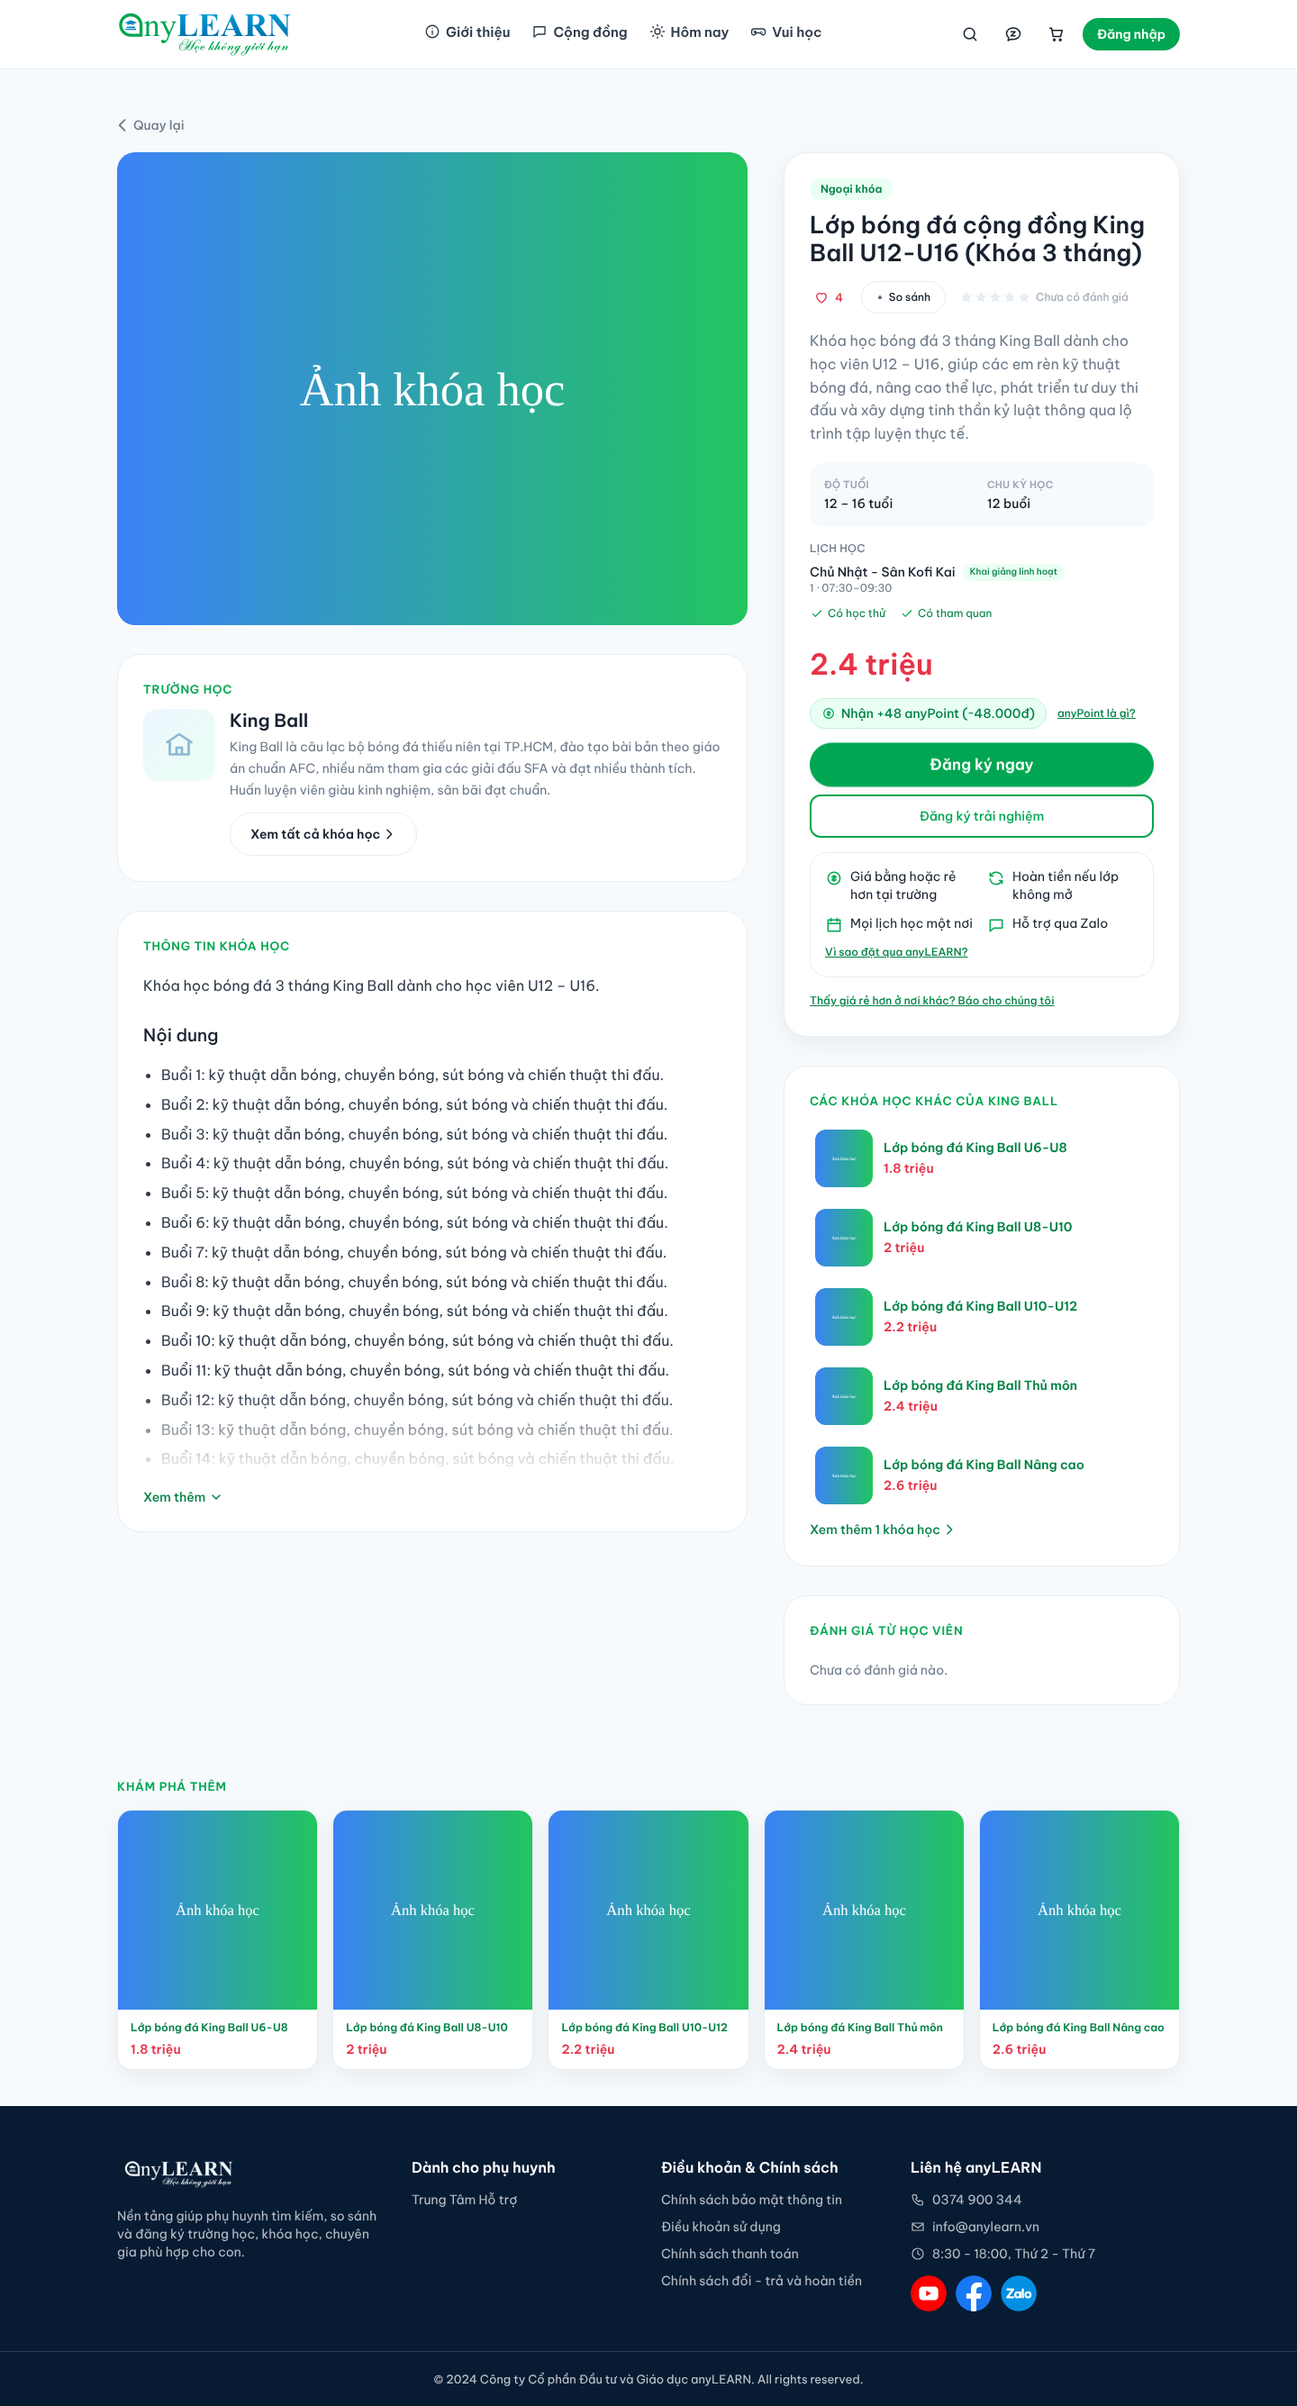
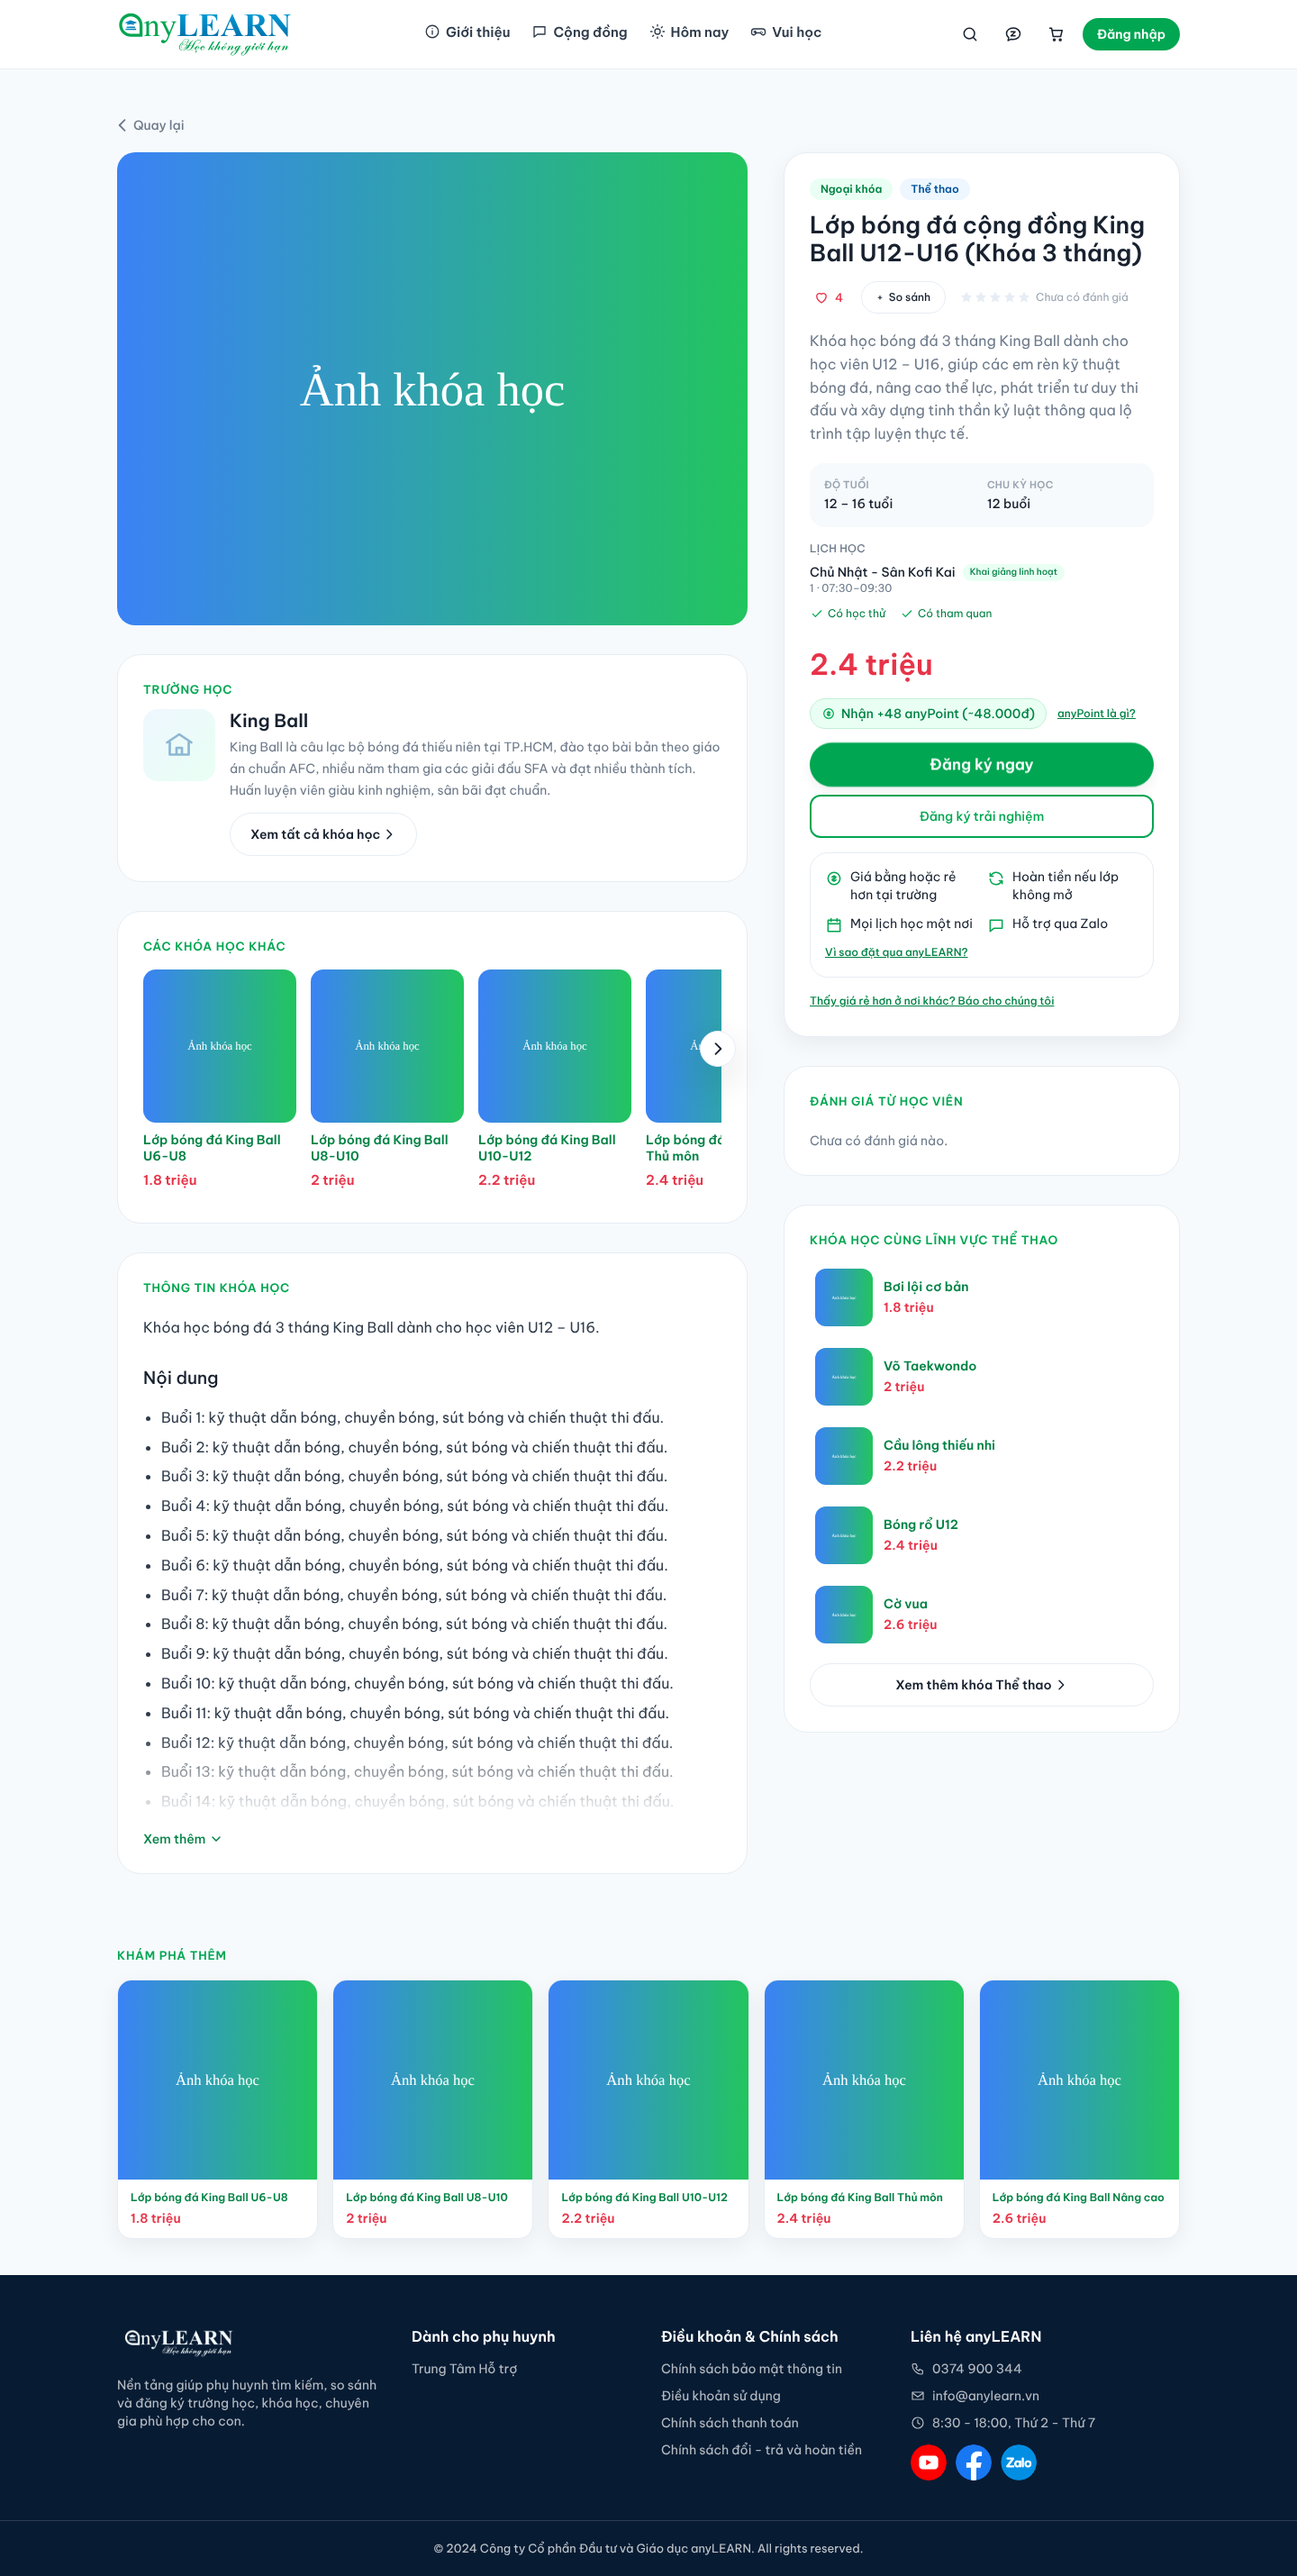
PDP: reviews under the buy card, same-field courses on the right
Right column: buy card, reviews, then 5 courses of the same field (the visitors' search
for the first category, no ref so it is not logged) with "Xem thêm" to /search with
that category. The partner's other courses go back to their row, as their own block
under the partner block in the left column.

Claude-Session: https://claude.ai/code/session_017554NAj9pbuWEqGm9P4AtS

diff --git a/anylearn_v2/src/app/class/[id]/[slug]/page.tsx b/anylearn_v2/src/app/class/[id]/[slug]/page.tsx
@@ -1,5 +1,6 @@
-import { getPdpData, getPointsPreview, getCourseUrl, PdpData, Item, ItemSchedule } from '@/lib/api'
+import { getPdpData, getPointsPreview, getCourseUrl, searchItems, PdpData, Item, ItemSchedule } from '@/lib/api'
 import Link from 'next/link'
+import ScrollRow from '@/components/ScrollRow'
 import { notFound } from 'next/navigation'
 import type { Metadata } from 'next'
 import BackButton from '@/components/BackButton'
@@ -45,7 +46,7 @@ const SCHEDULE_BADGE_CLASS: Record<string, string> = {
   open: 'bg-green-soft text-green-dark',
 }
 const PANEL = 'rounded-[26px] border border-line bg-white p-5 lg:p-7'
-const RELATED_LIMIT = 5
+const SAME_FIELD_LIMIT = 5
 
 const FEATURE_LABELS = [
   { key: 'activiyTrial', label: 'Có học thử' },
@@ -87,6 +88,12 @@ export default async function PdpPage({ params }: Props) {
   const origin = siteOrigin()
   const coursePath = getCourseUrl(item)
   const firstCategory = categories[0]
+  // Same field = the visitors' search for the first category (visible courses, max 2 per partner); not logged
+  // as a search because no `ref` is sent.
+  const sameField = firstCategory
+    ? (await searchItems('', 0, SAME_FIELD_LIMIT + 1, { category: firstCategory.url })).items
+        .filter(it => it.id !== item.id).slice(0, SAME_FIELD_LIMIT)
+    : []
 
   return (
     <>
@@ -104,9 +111,10 @@ export default async function PdpPage({ params }: Props) {
         ]),
       ]} />
       {/* ── Hero ──
-          Desktop: two columns. Left = picture, video outline, partner, course description; right = buy card, related
-          courses of the partner, reviews (the right column follows the scroll). Phone: one column, the order-* classes
-          put the blocks as picture, buy card, video, partner, related, reviews, description. */}
+          Desktop: two columns. Left = picture, video outline, partner, its other courses, course description; right =
+          buy card, reviews, courses of the same field (the right column follows the scroll). Phone: one column, the
+          order-* classes put the blocks as picture, buy card, video, partner, other courses, reviews, description,
+          same field. */}
       <section className="section--soft pb-10 pt-6 lg:pt-10">
         <div className="container">
           <BackButton />
@@ -146,8 +154,30 @@ export default async function PdpPage({ params }: Props) {
                 </div>
               )}
 
+              {authorItems.length > 0 && (
+                <div className={`${PANEL} order-4 lg:order-none`}>
+                  <h3 className="section-kicker mb-4">Các khóa học khác</h3>
+                  <ScrollRow>
+                    {(authorItems as Item[]).map(it => (
+                      <Link key={it.id} href={getCourseUrl(it)} className="w-[150px] shrink-0 no-underline sm:w-[170px]">
+                        <div className="relative mb-2.5 aspect-square overflow-hidden rounded-[14px] bg-gradient-to-br from-green-soft to-blue-soft">
+                          {it.image
+                            // eslint-disable-next-line @next/next/no-img-element
+                            ? <img src={it.image} alt={it.title} className="absolute inset-0 size-full object-cover" />
+                            : <div className="grid size-full place-items-center text-blue/40"><BookIcon className="size-8" /></div>
+                          }
+                        </div>
+                        <div className="mb-1.5 line-clamp-2 text-sm font-extrabold leading-[1.3] text-green-dark">{it.title}</div>
+                        <div className="text-[15px] font-extrabold text-red">{formatPrice(it.price)}</div>
+                        <CompareWhenActive itemId={it.id} title={it.title} image={it.image} className="mt-1" />
+                      </Link>
+                    ))}
+                  </ScrollRow>
+                </div>
+              )}
+
               {hasContent && (
-                <div className={`${PANEL} order-7 lg:order-none`}>
+                <div className={`${PANEL} order-6 lg:order-none`}>
                   <h2 className="section-kicker mb-5">Thông tin khóa học</h2>
                   <CollapsibleContent>
                     <div className="cms-content" dangerouslySetInnerHTML={{ __html: content.content_advantage }} />
@@ -274,11 +304,16 @@ export default async function PdpPage({ params }: Props) {
                 <div className="mt-3"><ReportPriceButton itemId={item.id} /></div>
               </div>
 
-              {authorItems.length > 0 && (
-                <div className={`${PANEL} order-5 lg:order-none`}>
-                  <h2 className="section-kicker mb-4">Các khóa học khác{author ? ` của ${author.name}` : ''}</h2>
+              <div className={`${PANEL} order-5 lg:order-none`} id="reviews-section">
+                <h2 className="section-kicker mb-5">Đánh giá từ học viên</h2>
+                <ReviewsSection itemId={item.id} authorId={author?.id} authorName={author?.name} initialReviews={reviews} />
+              </div>
+
+              {firstCategory && sameField.length > 0 && (
+                <div className={`${PANEL} order-7 lg:order-none`}>
+                  <h2 className="section-kicker mb-4">Khóa học cùng lĩnh vực {firstCategory.title}</h2>
                   <div className="flex flex-col gap-3">
-                    {(authorItems as Item[]).slice(0, RELATED_LIMIT).map(it => (
+                    {sameField.map(it => (
                       <Link key={it.id} href={getCourseUrl(it)} className="flex items-center gap-3 rounded-2xl p-1.5 no-underline hover:bg-bg">
                         <div className="relative size-16 shrink-0 overflow-hidden rounded-xl bg-gradient-to-br from-green-soft to-blue-soft">
                           {it.image
@@ -295,18 +330,11 @@ export default async function PdpPage({ params }: Props) {
                       </Link>
                     ))}
                   </div>
-                  {author && authorItems.length > RELATED_LIMIT && (
-                    <Link href={`/partner/${author.id}`} className="mt-3 inline-block text-sm font-bold text-green-dark">
-                      <ChevronLabel>Xem thêm {authorItems.length - RELATED_LIMIT} khóa học</ChevronLabel>
-                    </Link>
-                  )}
+                  <Link href={`/search?category=${encodeURIComponent(firstCategory.url)}`} className="btn btn--outline mt-4 w-full justify-center text-sm">
+                    <ChevronLabel>Xem thêm khóa {firstCategory.title}</ChevronLabel>
+                  </Link>
                 </div>
               )}
-
-              <div className={`${PANEL} order-6 lg:order-none`} id="reviews-section">
-                <h2 className="section-kicker mb-5">Đánh giá từ học viên</h2>
-                <ReviewsSection itemId={item.id} authorId={author?.id} authorName={author?.name} initialReviews={reviews} />
-              </div>
             </StickyAside>
           </div>
         </div>
